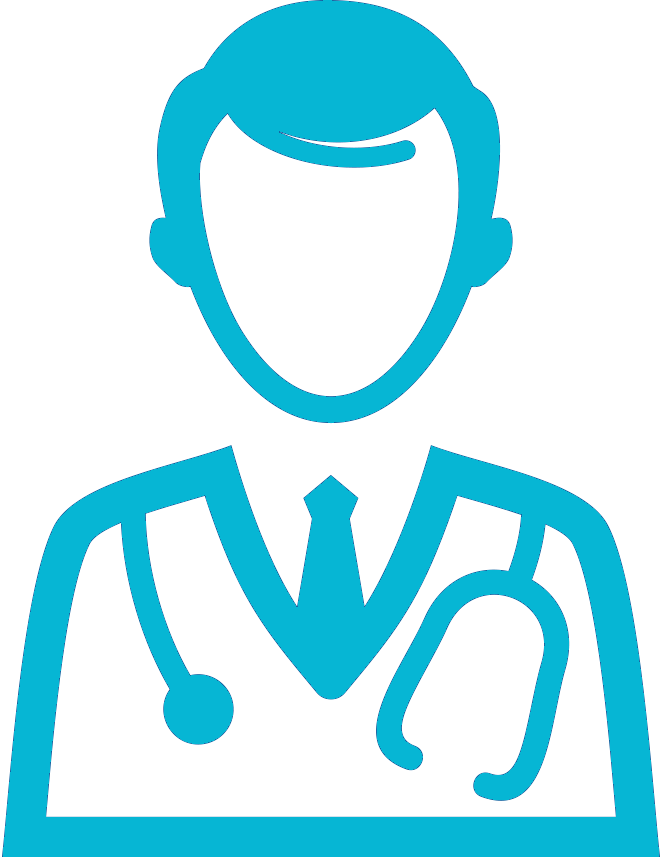
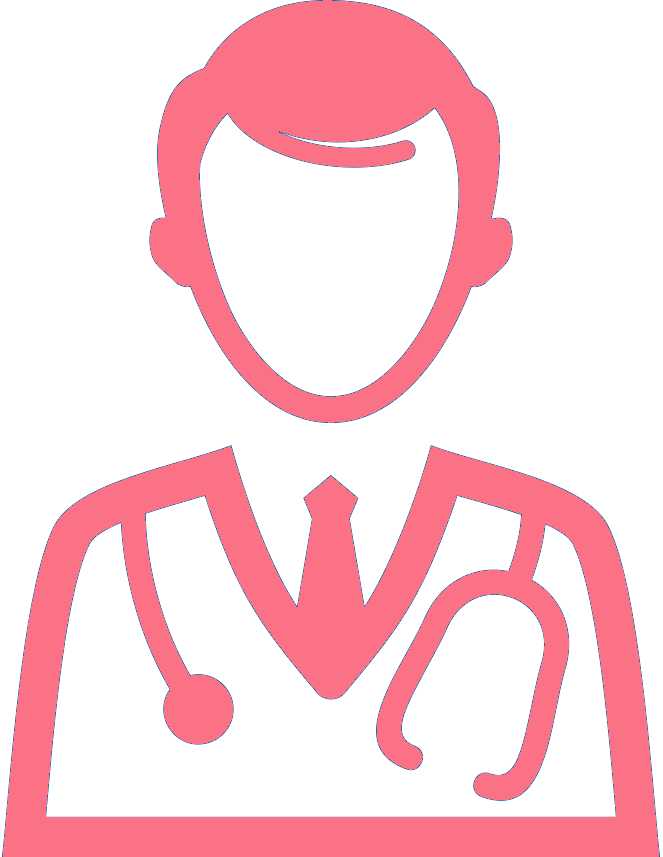
changed Recep color

Changed region(s): [[0.0, 0.5158, 0.9955, 1.0], [0.2112, 0.0, 0.7843, 0.5158]]

diff --git a/Frontend/src/components/TopMenu.tsx b/Frontend/src/components/TopMenu.tsx
@@ -7,9 +7,9 @@ import { authOptions } from '@/app/api/auth/[...nextauth]/route';
 export default async function TopMenu() {
   const session = await getServerSession(authOptions);
   return (
-    <div className="h-16 bg-white flex flex-row fixed top-0 left-0 right-0 border-b-[1px] border-solid border-gray-500 z-30 bg-opacity-80">
+    <div className={`h-16 bg-white flex flex-row fixed top-0 left-0 right-0 border-b-[1px] border-solid ${session?.user.role == "receptionist" ? "border-rose-400":"border-cyan-500"} z-30 bg-opacity-80`}>
       <Image
-        src={'/img/DentistLogo2.jpg'}
+        src={`${session?.user.role == "receptionist" ? "/img/Dentistlogo2.png" : "/img/Dentistlogo.jpg"}`}
         className="h-full w-auto "
         alt="logo"
         width={0}
@@ -18,7 +18,7 @@ export default async function TopMenu() {
       />
       <TopMenuItem
         title="Home"
-        imgSrc="/img/homelogo.png"
+        imgSrc={`${session?.user.role == "receptionist" ? "/img/homelogo2.png" : "/img/homelogo.png"}`}
         pageRef="/"
       />
       {session?.user.role == "receptionist" ? null :
@@ -30,7 +30,7 @@ export default async function TopMenu() {
       }
       <TopMenuItem
         title={session?.user.role == "receptionist" ? "Bookings" : "My Booking"}
-        imgSrc="/img/bookingIcon.png"
+        imgSrc={`${session?.user.role == "receptionist" ? "/img/bookingIcon2.png" : "/img/bookingIcon.png"}`}
         pageRef="/mybookings"
       />
       {session?.user.role == "receptionist" ? 
@@ -48,15 +48,15 @@ export default async function TopMenu() {
       ) : null}
       <div className="absolute right-3 top-3 flex flex-column h-full">
         {session ? (
-          <Link href="/api/auth/signout" style={{textDecoration:'none', fontSize:'20px'}} className='flex items-center h-10 border-2 rounded-lg border-cyan-500 w-auto shadow-lg p-2
-          text-center justify-center text-cyan-500 transition hover:bg-cyan-500 hover:text-white'>
+          <Link href="/api/auth/signout" style={{textDecoration:'none', fontSize:'20px'}} className={`flex items-center h-10 border-2 rounded-lg  w-auto shadow-lg p-2
+          text-center justify-center ${session?.user.role == "receptionist" ? "border-rose-400 text-rose-400 hover:bg-rose-400":"border-cyan-500 text-cyan-500 hover:bg-cyan-500"} transition hover:text-white`}>
             <div>
               Sign-Out of {session.user.name}
             </div>
           </Link>
         ) : (
-          <Link href="/api/auth/signin" style={{textDecoration:'none', fontSize:'20px'}} className='flex items-center h-10 border-2 rounded-lg border-cyan-500 w-28 shadow-lg
-          text-center justify-center text-cyan-500 hover:bg-cyan-500 transition hover:text-white'>
+          <Link href="/api/auth/signin" style={{textDecoration:'none', fontSize:'20px'}} className={`flex items-center h-10 border-2 rounded-lg w-28 shadow-lg
+          text-center justify-center border-cyan-500 text-cyan-500 hover:bg-cyan-500 transition hover:text-white`}>
             <div>
               Sign-In
             </div>

diff --git a/Frontend/src/app/(dentistinfo)/dentists/[id]/page.tsx b/Frontend/src/app/(dentistinfo)/dentists/[id]/page.tsx
@@ -40,23 +40,24 @@ export default async function DentistDetailPage({
               src={dentistDetail.data.picture}
               alt="Dentist Picture"
               fill           
-              className="rounded-full bg-black object-cover border border-black"
+              className="rounded-full object-cover border border-cyan-500"
             />
           </div>
           
           <div className="mx-5 text-left">
             <div>
               <span className='text-4xl font-bold font-mono text-cyan-900'>Name:</span>
-              <span className='text-3xl text-black'>{dentistDetail.data.name}</span>
+              <span className='text-2xl text-black'>{dentistDetail.data.name}</span>
             </div>
             <div>
               <span className='text-4xl font-bold font-mono text-cyan-900'>Experience:</span>
-              <span className='text-3xl text-black'>{dentistDetail.data.experience}</span>
-              <span className='text-3xl text-black'> years</span>
+              <span className='text-2xl text-black'>{dentistDetail.data.experience}</span>
+              <span className='text-2xl text-black'> years</span>
             </div>
             <div>
               <span className='text-4xl font-bold font-mono text-cyan-900'>Expertise:</span>
-              <span className='text-3xl text-black'>{dentistDetail.data.expertise}</span>
+              <br></br>
+              <span className='text-2xl text-black'>{dentistDetail.data.expertise}</span>
             </div>
             <SymptomField
             dentist={params.id}
@@ -66,7 +67,7 @@ export default async function DentistDetailPage({
         </div>
         
         {/* { feedbackDetail.count == 0 ? null : */}
-        <div className="flex flex-col shrink space-y-4 bg-white w-full p-6">
+        <div className="flex flex-col shrink space-y-4 bg-white w-full p-6 shadow-xl">
 
           <ShowFeedback dentistId={params.id}  />
 

diff --git a/Frontend/src/components/ShowFeedbacks.tsx b/Frontend/src/components/ShowFeedbacks.tsx
@@ -13,20 +13,23 @@ export default function ShowFeedback({dentistId}:{dentistId:string}) {
 
   return (
     <div className='space-y-4'>
-      <div className='flex flex-row items-center'>
+      <div className='flex flex-col items-center'>
+        <div className='flex items-center'>
         {page <= 1 ? null : <button className="rounded-md bg-sky-600 hover:bg-sky-700 px-3 py-2
-              shadow-sm text-white h-10" onClick={() => {setPage(page-1);}}>
-            Back
-          </button>
-          }
+            shadow-sm text-white h-10" onClick={() => {setPage(page-1);}}>
+          Back
+        </button>
+        }
+        <div className='text-black pl-6 pr-2 text-lg'>page</div>
         
-        <p className='text-black px-6 py-3'>{page}</p>
+        <div className='text-black pl-2 pr-6 text-lg'>{page}</div>
         
         {data.length == 0 ? null : <button className="rounded-md bg-sky-600 hover:bg-sky-700 px-3 py-2
             shadow-sm text-white h-10" onClick={() => {setPage(page+1);}}>
           Next
         </button>}
         </div>
+      </div>
         
       {data.length == 0 ? ( <p className='text-red-400'>No data on this page</p> ) : ( data.map((feedback: FeedbackItem) => (
         

diff --git a/Frontend/src/components/Banner.tsx b/Frontend/src/components/Banner.tsx
@@ -11,8 +11,8 @@ export default function Banner() {
   return (
     <div className="flex-col p-[5px] m-0 w-screen h-[100vh] relative items-center text-center">
       <div className="relative top-24 z-20 text-center">
-        <h1 className="text-6xl p-4 rounded-lg font-semibold font-body text-cyan-800">Welcome to Dentist Booking</h1>
-        <div className="text-xl font-serif italic text-cyan-900 mt-6">Your perfect choice for dentist booking</div>
+        <h1 className={`text-6xl p-4 rounded-lg font-semibold font-body ${session?.user.role == "receptionist" ? "text-rose-500":"text-cyan-800"}`}>Welcome to Dentist Booking</h1>
+        <div className={`text-xl font-serif italic ${session?.user.role == "receptionist" ? "text-rose-700":"text-cyan-900"} mt-6`}>Your perfect choice for dentist booking</div>
         <div className='flex mt-10 items-center justify-center'>
         {session?.user.role == "receptionist" ? null : 
         <Link href="/dentists" style={{textDecoration:'none', fontSize:'20px'}} className='flex items-center h-12 border-2 rounded-lg border-cyan-500 w-28 shadow-lg

diff --git a/Frontend/src/components/TopMenuItem.tsx b/Frontend/src/components/TopMenuItem.tsx
@@ -1,7 +1,9 @@
 import Link from 'next/link';
 import Image from 'next/image';
+import { getServerSession } from 'next-auth';
+import { authOptions } from '@/app/api/auth/[...nextauth]/route';
 
-export default function TopMenuItem({
+export default async function TopMenuItem({
   title,
   imgSrc,
   pageRef,
@@ -10,6 +12,7 @@ export default function TopMenuItem({
   imgSrc: string;
   pageRef: string;
 }) {
+  const session = await getServerSession(authOptions);
   return (
     <Link
       href={pageRef}>
@@ -23,7 +26,7 @@ export default function TopMenuItem({
                 alt={title} 
                 width={0}
                 height={0}/>
-              <div className='m-2 font-body font-medium text-cyan-500 text-lg'>{title}</div>
+              <div className={`m-2 font-body font-medium ${session?.user.role == "receptionist" ? "text-rose-400":"text-cyan-500"} text-lg`}>{title}</div>
           </div>
     </Link>
   );

diff --git a/Frontend/src/app/mydentists/[id]/page.tsx b/Frontend/src/app/mydentists/[id]/page.tsx
@@ -24,7 +24,7 @@ export default async function MyDentistId({params} : {params : {id:string}}) {
               src={dentistDetail.data.picture}
               alt="Dentist Picture"
               fill           
-              className="rounded-full bg-black object-cover border border-black"
+              className="rounded-full object-cover border border-rose-400"
             />
           </div>
           
@@ -45,7 +45,7 @@ export default async function MyDentistId({params} : {params : {id:string}}) {
           </div>
         </div>
         
-        <div className="flex flex-col shrink space-y-4 bg-white w-full p-6">
+        <div className="flex flex-col shrink space-y-4 bg-white w-full p-6 sahdow-xl">
           <ShowFeedback dentistId={params.id}  />
         </div>
       </main>
